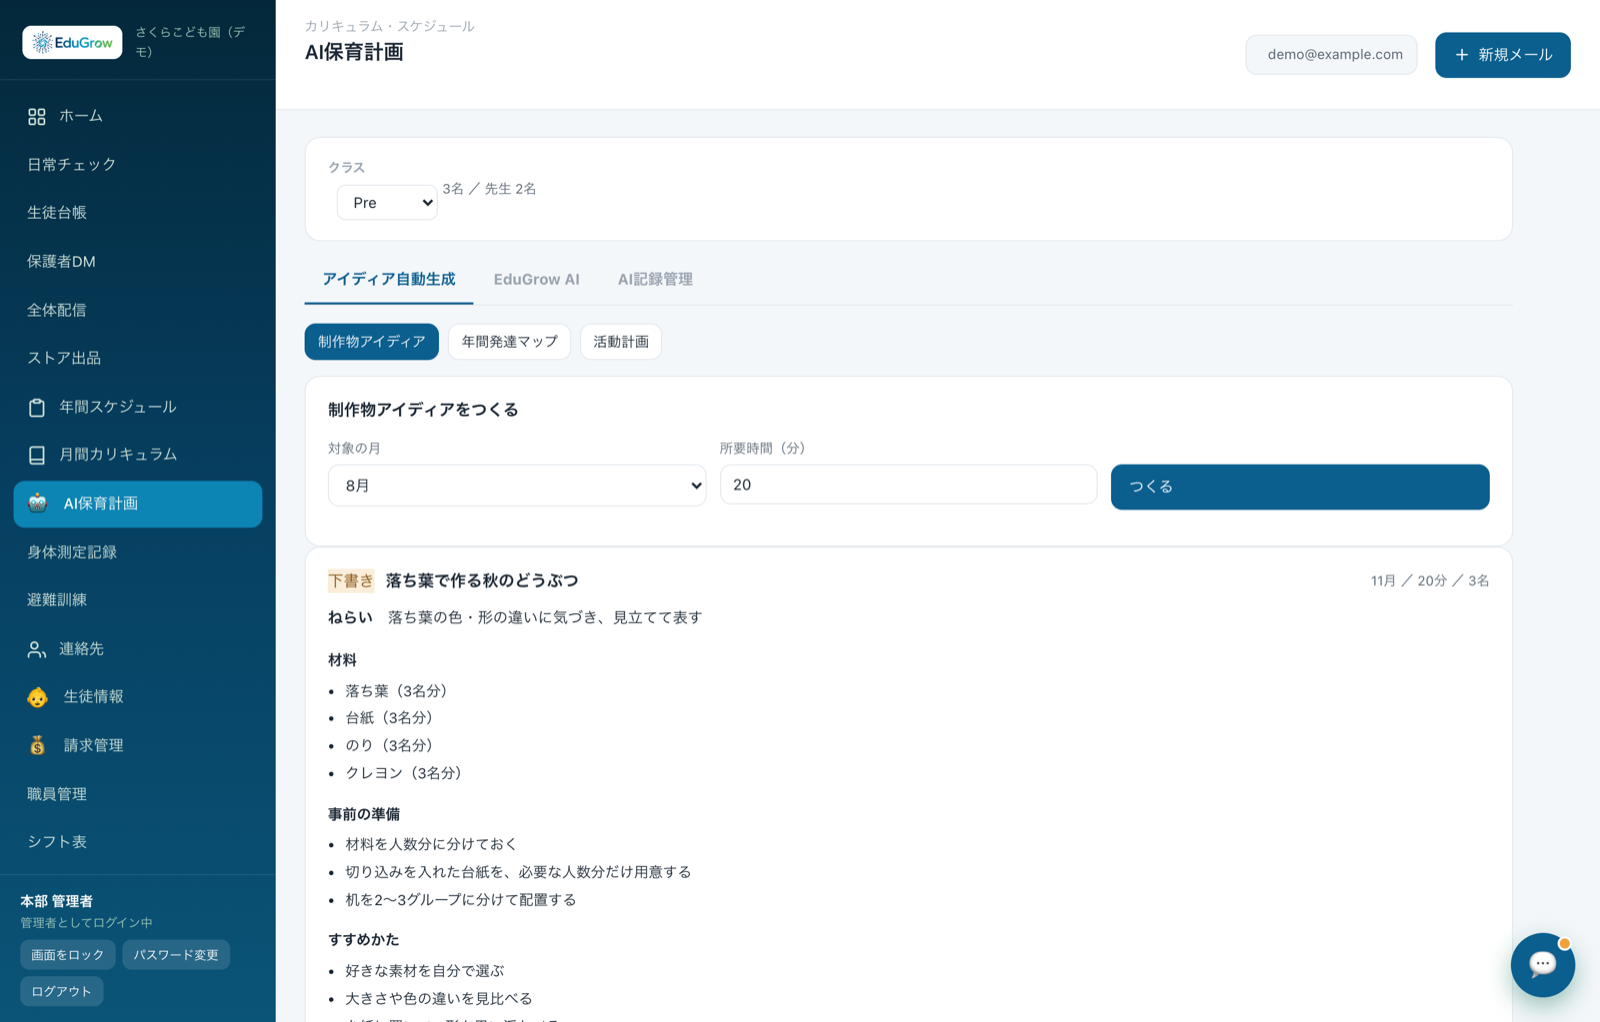
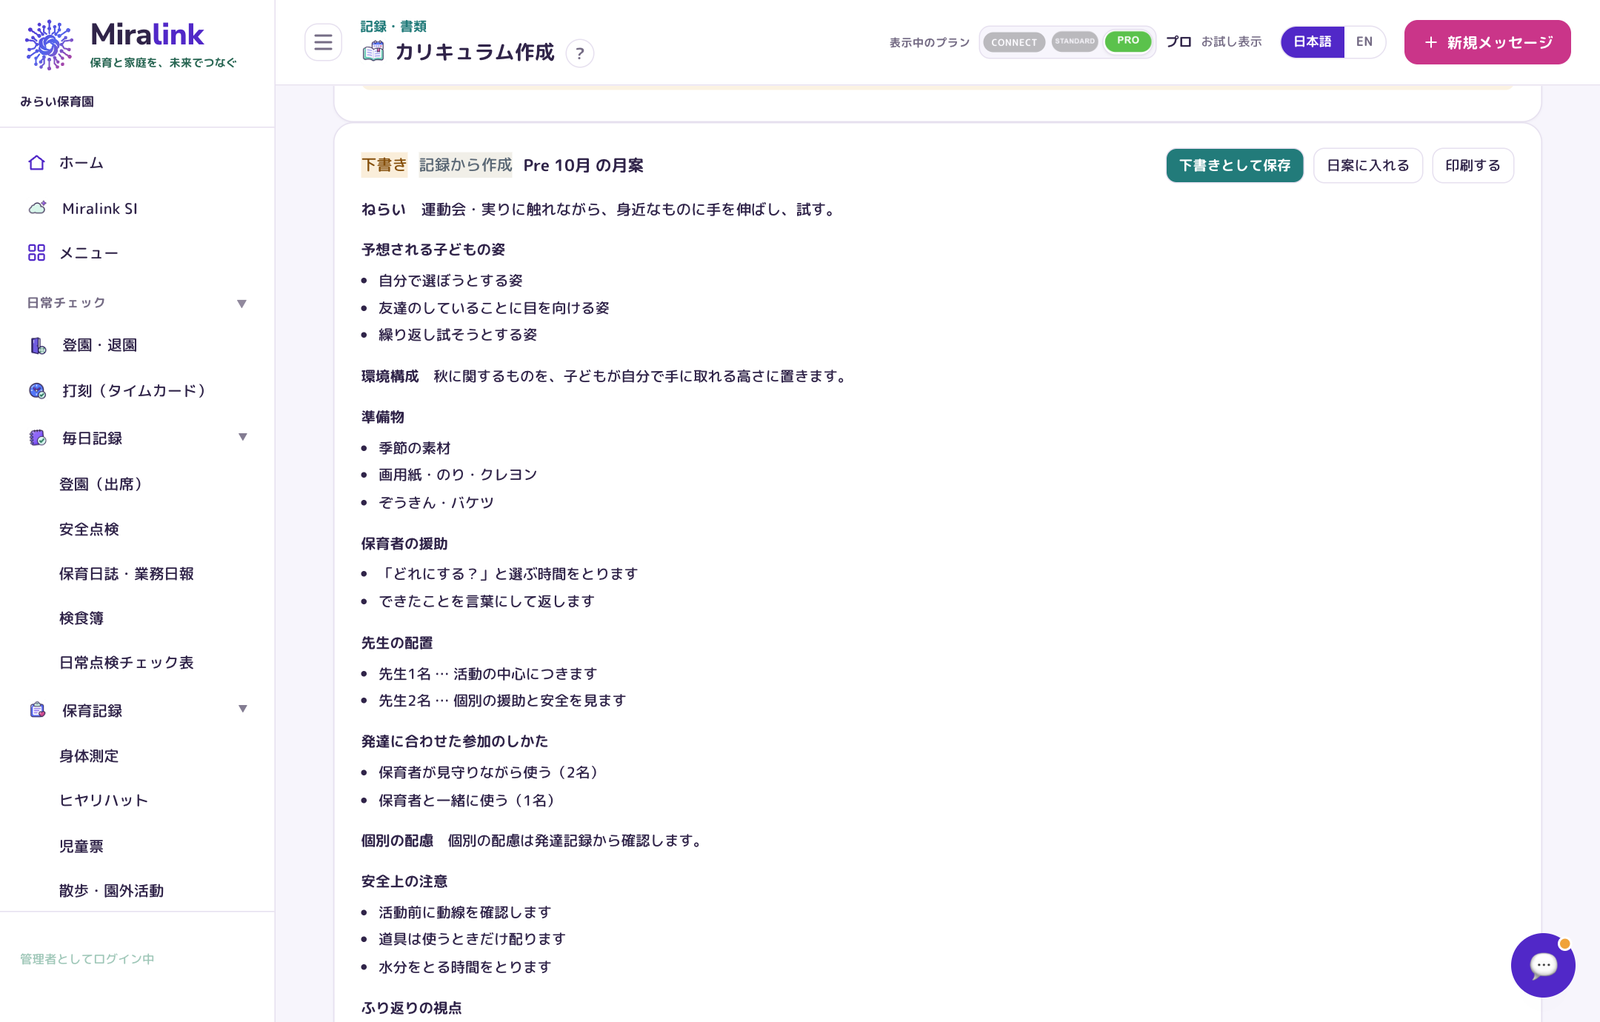
公式HPの画面画像を今の画面に撮り直した
★8月の EduGrow 時代の画面のままで、「AI保育計画」の文字と古い名前が写っていた。
  ホーム・月案（SI の下書き）・カリキュラム作成の3枚を Miralink の今の画面で撮り直し、
  説明文も今ある機能（制作アイディア・年間発達マップの画面は無くなった）に合わせた。

diff --git a/hp.html b/hp.html
@@ -591,9 +591,9 @@ footer .cr{margin-top:34px;padding-top:22px;border-top:1px solid rgba(255,255,25
       <div>
         <div class="shotframe">
           <div class="bar"><i></i><i></i><i></i></div>
-          <img src="img/shot_aiplan.png" alt="SI保育計画の画面。11月の制作物のアイディアが、ねらい・材料・手順つきで並んでいる">
+          <img src="img/shot_aiplan.png" alt="SI がつくった10月の月案。ねらい・予想される子どもの姿・環境構成・準備物・保育者の援助が並んでいる">
         </div>
-        <div class="cap">SI保育計画 ─ 月を選ぶと、その季節の制作アイディアがねらい・材料つきで出る</div>
+        <div class="cap">月案・週案 ─ クラスの記録と園の環境から、SI がねらい・環境構成・準備物まで下書き</div>
       </div>
     </div>
 
@@ -614,9 +614,9 @@ footer .cr{margin-top:34px;padding-top:22px;border-top:1px solid rgba(255,255,25
       <div>
         <div class="shotframe">
           <div class="bar"><i></i><i></i><i></i></div>
-          <img src="img/shot_year.png" alt="年間発達マップの画面。クラスごとの1年間の育ちの見通しが月ごとに並んでいる">
+          <img src="img/shot_year.png" alt="カリキュラム作成の画面。月間の活動内容と、その月の日案が1つの画面に並んでいる">
         </div>
-        <div class="cap">年間発達マップ ─ クラスの1年の見通しを、月ごとのねらいに落として表示</div>
+        <div class="cap">カリキュラム作成 ─ 月間の活動内容のねらいから、日ごとの日案までを1つの画面で</div>
       </div>
       <div>
             <h2 class="sec" style="font-size:clamp(23px,2.6vw,31px)">年間・月・週・日が、<br>ばらばらにならない。</h2>
